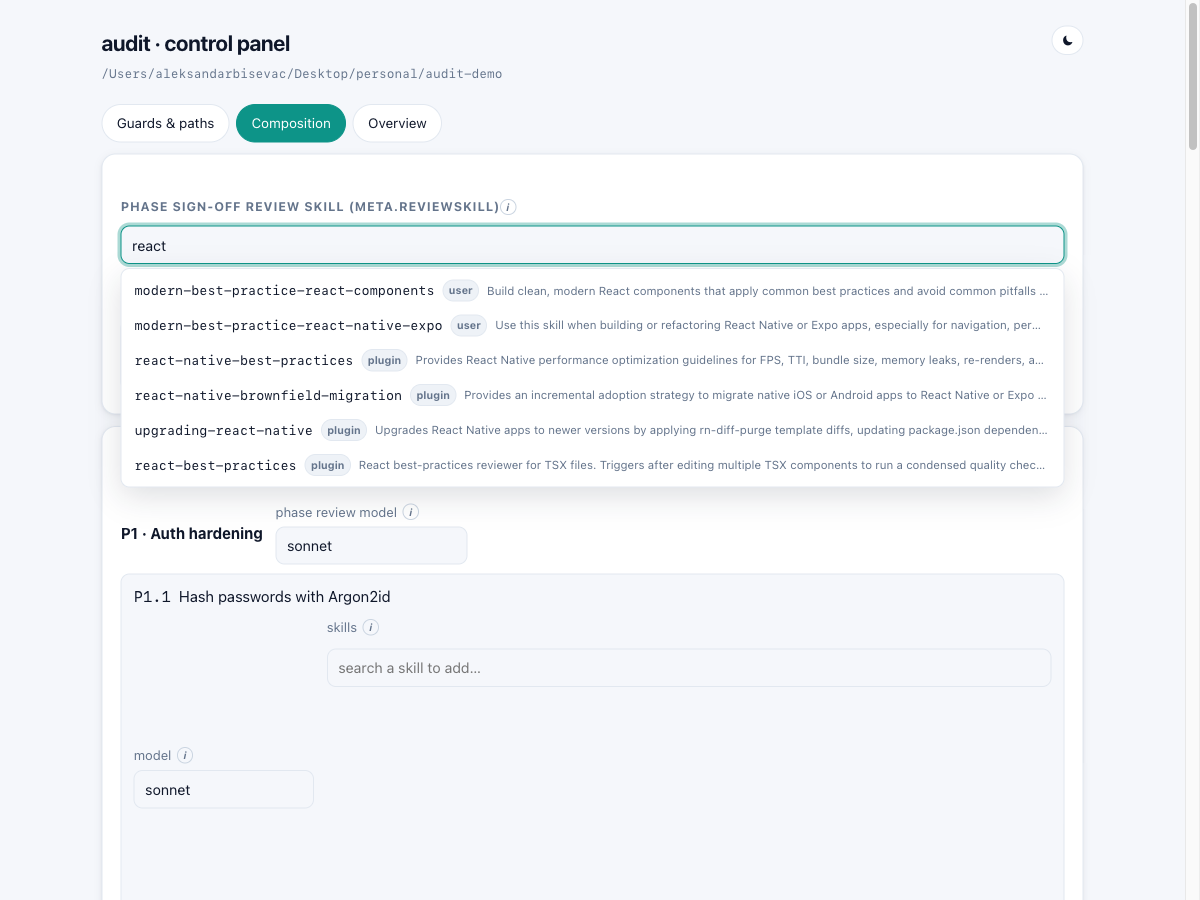
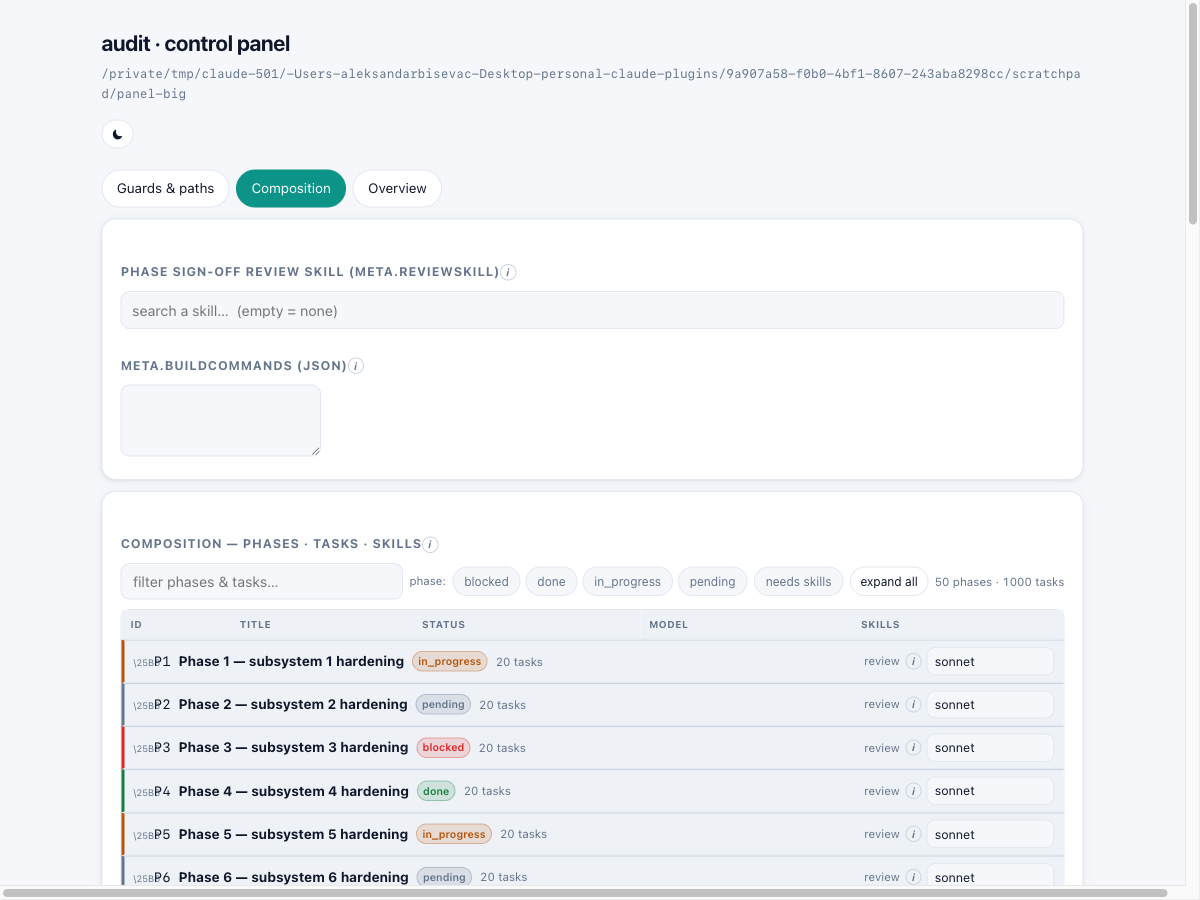
feat(panel): compact collapsible filterable Composition tab (scales to 50x20)
Replaces the big per-task cards (which didn't scale and wasted space) with the
report's proven shape:
- ONE dense table (id · title · status · model · skills); phases are collapsible
  group-rows, collapsed by default (50 phases = ~50 tight rows).
- Filter toolbar: text search (auto-expands matches), phase-status chips, a
  "needs skills" bulk-assign filter, expand/collapse-all, live count.
- Status-colored left edge + tinted status chips (reuse ok/warn/err/muted tokens);
  inline model input + skills chips/autocomplete per task.
- _composition_view now also returns phase/task status. Edit/save contract
  unchanged. Guards form + building-blocks table untouched.

panel-server --selftest 37 (added: composition is a collapsible filterable table).
Verified in a browser against a generated 50x20 (1000-task) manifest: collapsed
default is compact; search/phase-status/needs-skills filters work; expand/collapse
-all works; a task model/skills edit + Save round-trips + re-validates; skills
autocomplete opens in-cell; light/dark; mobile has no horizontal page scroll.

diff --git a/plugins/audit/scripts/panel-server.py b/plugins/audit/scripts/panel-server.py
@@ -266,13 +266,14 @@ def _composition_view(manifest):
             continue
         review = ph.get("review") if isinstance(ph.get("review"), dict) else {}
         phases_out.append({"id": ph.get("id"), "title": ph.get("title"),
-                           "reviewModel": review.get("model")})
+                           "status": ph.get("status"), "reviewModel": review.get("model")})
         for t in (ph.get("tasks") or []):
             if not isinstance(t, dict):
                 continue
             tasks_out.append({
                 "id": t.get("id"), "title": t.get("title"),
-                "phaseId": ph.get("id"), "model": t.get("model"),
+                "phaseId": ph.get("id"), "status": t.get("status"),
+                "model": t.get("model"),
                 "skills": t.get("skills") if isinstance(t.get("skills"), list) else [],
             })
     return {
@@ -759,6 +760,50 @@ table.regtbl th{position:sticky;top:0;z-index:1;background:var(--surface-2);colo
 table.regtbl td{padding:.4rem .65rem;border-bottom:1px solid var(--border);vertical-align:top}
 table.regtbl tbody tr:hover td{background:var(--surface-2)}
 table.regtbl td.d{color:var(--muted)}
+/* status -> --st (reuses the theme-aware ok/warn/err/muted tokens) */
+[data-status="done"],[data-status="fixed"]{--st:var(--ok)}
+[data-status="in_progress"],[data-status="triaged"]{--st:var(--warn)}
+[data-status="blocked"],[data-status="open"]{--st:var(--err)}
+[data-status="pending"],[data-status="wontfix"]{--st:var(--muted)}
+.st{display:inline-block;font-size:.66rem;font-weight:600;padding:.05rem .5em;border-radius:var(--pill);
+ background:color-mix(in srgb,var(--st,var(--muted)) 15%,transparent);color:var(--st,var(--muted));
+ border:1px solid color-mix(in srgb,var(--st,var(--muted)) 32%,transparent);white-space:nowrap}
+/* composition: filter toolbar + one compact collapsible table */
+.comptools{display:flex;gap:.4rem;align-items:center;flex-wrap:wrap;margin:.3rem 0 .6rem}
+.comptools input[type=search]{flex:1 1 13rem;min-width:9rem;padding:.35rem .7rem}
+.filtlbl{font-size:.72rem;color:var(--muted)}
+.filt{cursor:pointer;font:inherit;font-size:.75rem;padding:.26rem .68rem;border-radius:var(--pill);
+ border:1px solid var(--border);background:var(--bg);color:var(--muted);transition:all var(--dur) var(--ease)}
+.filt:hover{border-color:var(--border-strong)}
+.filt.on{background:var(--accent-solid);border-color:var(--accent-solid);color:#fff}
+.count{font-size:.73rem;color:var(--muted);font-variant-numeric:tabular-nums}
+.comptblwrap{border:1px solid var(--border);border-radius:var(--radius);overflow:visible}
+table.comp{width:100%;border-collapse:separate;border-spacing:0;font-size:.85rem}
+table.comp th,table.comp td{padding:.4rem .55rem;border-bottom:1px solid var(--border);text-align:left;vertical-align:middle}
+table.comp thead th{position:sticky;top:0;z-index:1;background:var(--surface-2);color:var(--muted);
+ font-size:.62rem;text-transform:uppercase;letter-spacing:.05em}
+table.comp tbody tr:last-child td{border-bottom:none}
+tr.phase{cursor:pointer}
+tr.phase>td{background:var(--surface-2);border-top:1px solid var(--border-strong);
+ border-left:3px solid var(--st,var(--muted))}
+.phtd{display:flex;align-items:center;gap:.5rem}
+tr.phase:hover>td{filter:brightness(1.05)}
+.tri{display:inline-block;width:.9em;color:var(--muted);transition:transform var(--dur) var(--ease)}
+.tri::before{content:"\25B6";font-size:.68em}
+tr.phase.open .tri{transform:rotate(90deg)}
+tr.task>td{background:var(--surface)}
+tr.task:hover>td{background:var(--surface-2)}
+tr.task>td.tid{font-family:var(--mono);color:var(--muted);font-size:.8em;padding-left:1.5rem;
+ border-left:3px solid var(--st,var(--border))}
+td.ttitle{max-width:22rem;overflow:hidden;text-overflow:ellipsis;white-space:nowrap}
+td.tmodel input{width:6.5rem;padding:.22rem .45rem;font-size:.8rem}
+td.tskills{min-width:15rem}
+.comp-review{display:flex;align-items:center;gap:.3rem;margin-left:auto;font-weight:400;color:var(--muted);font-size:.72rem}
+.comp-review input{width:8rem;padding:.2rem .45rem;font-size:.78rem}
+.comp .chipwrap{flex-direction:row;flex-wrap:wrap;align-items:center;gap:.25rem}
+.comp .chips{gap:.25rem}
+.comp .combo{flex:1 1 8rem;min-width:7rem}
+@media(max-width:48rem){.comptblwrap{overflow-x:auto}html,body{overflow-x:hidden}}
 </style></head><body>
 <div class=top>
  <div><h1>audit · control panel</h1><p class=sub id=proj></p></div>
@@ -928,19 +973,71 @@ function renderComp(){const c=$('#comp');c.textContent='';const comp=STATE.compo
  bc.oninput=()=>{try{patch.meta.buildCommands=bc.value.trim()?JSON.parse(bc.value):null;bc.style.borderColor='';}
   catch(e){bc.style.borderColor='var(--err)';}};
  meta.append(bc);c.append(meta);
- const tcard=el('div',{class:'card'});tcard.append(el('h2',{},'Tasks — model & skills'));
- const byPhase={};comp.tasks.forEach(t=>{(byPhase[t.phaseId]=byPhase[t.phaseId]||[]).push(t);});
+ // tasks: filter toolbar + ONE compact collapsible table (scales to 50x20)
+ const tcard=el('div',{class:'card'});tcard.append(h2h('Composition — phases · tasks · skills',DESC.taskSkills));
+ const q=el('input',{type:'search',placeholder:'filter phases & tasks…'});
+ const statusBar=el('span',{class:'filtset',style:'display:inline-flex;gap:.3rem;flex-wrap:wrap'});
+ const needsBtn=el('button',{class:'filt',type:'button',title:'only tasks with no skills yet'},'needs skills');
+ const expandBtn=el('button',{class:'btn small',type:'button'},'expand all');
+ const count=el('span',{class:'count',style:'margin-left:auto'});
+ tcard.append(el('div',{class:'comptools'},q,el('span',{class:'filtlbl'},'phase:'),statusBar,needsBtn,expandBtn,count));
+ const tbody=el('tbody');
+ tcard.append(el('div',{class:'comptblwrap'},el('table',{class:'comp'},
+   el('thead',{},el('tr',{},el('th',{},'id'),el('th',{},'title'),el('th',{},'status'),el('th',{},'model'),el('th',{},'skills'))),tbody)));
+
+ const open={};let phaseFilter='',needsOnly=false;
+ const phaseEls=[];const byPhase={};comp.tasks.forEach(t=>{(byPhase[t.phaseId]=byPhase[t.phaseId]||[]).push(t);});
  comp.phases.forEach(ph=>{
-  const pr=el('input',{value:ph.reviewModel??'',placeholder:'review model'});pr.oninput=()=>{patch.phases[ph.id]={reviewModel:pr.value.trim()||null};};
-  tcard.append(el('div',{class:'row',style:'margin-top:.8rem'},el('strong',{},(ph.id||'')+' · '+(ph.title||'')),
-    el('label',{class:'f',style:'flex:0 0 12rem'},flabel('phase review model',DESC.phaseReviewModel),pr)));
-  (byPhase[ph.id]||[]).forEach(t=>{
-   const tp={};const model=el('input',{value:t.model??'',placeholder:'model'});
+  const tasks=byPhase[ph.id]||[];
+  const rev=el('input',{value:ph.reviewModel??'',placeholder:'review model'});
+  rev.oninput=()=>{patch.phases[ph.id]={reviewModel:rev.value.trim()||null};};
+  rev.onclick=e=>e.stopPropagation();
+  const pr=el('tr',{class:'phase','data-status':ph.status||''});
+  pr.append(el('td',{colspan:'5'},el('div',{class:'phtd'},
+    el('span',{class:'tri'}),el('span',{class:'mono'},ph.id||''),el('strong',{},ph.title||''),
+    el('span',{class:'st','data-status':ph.status||''},ph.status||'—'),
+    el('span',{class:'count'},tasks.length+(tasks.length===1?' task':' tasks')),
+    el('span',{class:'comp-review'},flabel('review',DESC.phaseReviewModel),rev))));
+  pr.onclick=()=>{open[ph.id]=!open[ph.id];refresh();};
+  tbody.append(pr);
+  const taskEls=[];
+  tasks.forEach(t=>{
+   const tp={};const model=el('input',{value:t.model??'',placeholder:'—'});
    model.oninput=()=>{tp.model=model.value.trim()||null;patch.tasks[t.id]=tp;};
-   const chips=skillChips(()=>tp.skills!==undefined?tp.skills:t.skills,a=>{tp.skills=a;patch.tasks[t.id]=tp;});
-   tcard.append(el('div',{class:'tsk'},el('div',{class:'h'},el('span',{class:'mono'},t.id),el('span',{},t.title||'')),
-     el('div',{class:'row',style:'align-items:flex-start'},el('label',{class:'f',style:'flex:0 0 10rem'},flabel('model',DESC.taskModel),model),
-       el('label',{class:'f'},flabel('skills',DESC.taskSkills),chips))));});});
+   const getSkills=()=>tp.skills!==undefined?tp.skills:(t.skills||[]);
+   const chips=skillChips(getSkills,a=>{tp.skills=a;patch.tasks[t.id]=tp;if(needsOnly)refresh();});
+   const tr=el('tr',{class:'task','data-status':t.status||''});
+   tr.append(el('td',{class:'tid'},t.id||''),el('td',{class:'ttitle',title:t.title||''},t.title||''),
+     el('td',{},el('span',{class:'st','data-status':t.status||''},t.status||'—')),
+     el('td',{class:'tmodel'},model),el('td',{class:'tskills'},chips));
+   tbody.append(tr);
+   taskEls.push({id:t.id||'',title:t.title||'',tr,getSkills});
+  });
+  phaseEls.push({id:ph.id,title:ph.title||'',status:ph.status||'',tr:pr,tasks:taskEls});
+ });
+ [...new Set(comp.phases.map(p=>p.status).filter(Boolean))].sort().forEach(s=>{
+  const b=el('button',{class:'filt',type:'button','data-status':s},s);
+  b.onclick=()=>{phaseFilter=phaseFilter===s?'':s;
+   [...statusBar.children].forEach(x=>x.classList.toggle('on',x.getAttribute('data-status')===phaseFilter));refresh();};
+  statusBar.append(b);});
+ needsBtn.onclick=()=>{needsOnly=!needsOnly;needsBtn.classList.toggle('on',needsOnly);refresh();};
+ expandBtn.onclick=()=>{const anyClosed=phaseEls.some(P=>!open[P.id]);phaseEls.forEach(P=>open[P.id]=anyClosed);refresh();};
+ const hit=(s,term)=>!term||s.toLowerCase().includes(term);
+ function refresh(){
+  const term=q.value.trim().toLowerCase();const forced=(term!=='')||needsOnly;let visP=0,visT=0;
+  phaseEls.forEach(P=>{
+   const pText=hit(P.id+' '+P.title,term);let anyT=false;
+   P.tasks.forEach(T=>{const tHit=pText||hit(T.id+' '+T.title,term);
+    const needHit=!needsOnly||((T.getSkills()||[]).length===0);T._m=tHit&&needHit;if(T._m)anyT=true;});
+   const showP=(!phaseFilter||P.status===phaseFilter)&&(pText||anyT)&&(!needsOnly||anyT);
+   P.tr.style.display=showP?'':'none';if(showP)visP++;
+   const isOpen=showP&&(forced||!!open[P.id]);P.tr.classList.toggle('open',isOpen);
+   P.tasks.forEach(T=>{const showT=showP&&isOpen&&T._m;T.tr.style.display=showT?'':'none';if(showT)visT++;});});
+  count.textContent=(term||phaseFilter||needsOnly)?(visP+' / '+phaseEls.length+' phases · '+visT+' tasks')
+    :(phaseEls.length+' phases · '+comp.tasks.length+' tasks');
+  expandBtn.textContent=phaseEls.some(P=>!open[P.id])?'expand all':'collapse all';}
+ q.addEventListener('input',refresh);refresh();
+
  const save=el('button',{class:'btn primary',onclick:async()=>{
    const clean={meta:{},phases:patch.phases,tasks:patch.tasks};
    for(const k of Object.keys(patch.meta))clean.meta[k]=patch.meta[k];
@@ -1095,6 +1192,9 @@ def _selftest():
           and "<datalist" not in UI_HTML and "list:" not in UI_HTML)
     check("UI labels carry info hints", "function hint(" in UI_HTML and "data-tip" in UI_HTML)
     check("UI building blocks are a tabbed table", "regtbl" in UI_HTML and "subtab" in UI_HTML)
+    check("composition is a compact collapsible filterable table",
+          "comptools" in UI_HTML and "table.comp" in UI_HTML and "needs skills" in UI_HTML
+          and "tr.phase" in UI_HTML and "class:'tsk'" not in UI_HTML)
 
     # lifecycle: pidfile + stop/status (no socket needed)
     check("_pid_alive on this process is True", _pid_alive(os.getpid()))

diff --git a/plugins/audit/README.md b/plugins/audit/README.md
@@ -49,11 +49,13 @@ hint), and **wires composition** — `meta.reviewSkill`, per-task `skills`/`mode
 model, `meta.buildCommands` — from **an autocomplete populated by the skills & agents actually
 available** in this repo + `~/.claude/` + installed plugins. Same Slate & Teal look, light/dark,
 responsive. It writes only config + composition fields (never structural manifest CRUD, and never
-while a `/audit` run holds the lock), validating before each atomic save.
+while a `/audit` run holds the lock), validating before each atomic save. Composition is a
+**compact, collapsible, filterable table** (search · phase-status · "needs skills" · expand-all)
+that scales to hundreds of tasks — phases are collapsed by default; expand only what you touch.
 
-| Guards & paths | Composition + discovery | Dark |
-|---|---|---|
-| [![panel guards](../../docs/screenshots/panel-guards.png)](../../docs/screenshots/panel-guards.png) | [![panel composition](../../docs/screenshots/panel-composition.png)](../../docs/screenshots/panel-composition.png) | [![panel dark](../../docs/screenshots/panel-dark.png)](../../docs/screenshots/panel-dark.png) |
+| Guards & paths | Composition (compact/collapsible) | Composition expanded | Dark |
+|---|---|---|---|
+| [![panel guards](../../docs/screenshots/panel-guards.png)](../../docs/screenshots/panel-guards.png) | [![panel composition](../../docs/screenshots/panel-composition.png)](../../docs/screenshots/panel-composition.png) | [![panel composition expanded](../../docs/screenshots/panel-composition-expanded.png)](../../docs/screenshots/panel-composition-expanded.png) | [![panel dark](../../docs/screenshots/panel-dark.png)](../../docs/screenshots/panel-dark.png) |
 
 ## What you get
 

diff --git a/CHANGELOG.md b/CHANGELOG.md
@@ -4,6 +4,19 @@ All notable changes to the `quality-gates` marketplace and its `audit` plugin.
 Format: [Keep a Changelog](https://keepachangelog.com/en/1.1.0/); versions are the
 `audit` plugin's `plugin.json` version, tagged `v<version>` on this repo.
 
+## [Unreleased]
+
+### Changed
+- **Control-panel Composition tab is now a compact, collapsible, filterable table.**
+  Replaced the big per-task cards (which didn't scale) with the report's proven
+  shape: phases are collapsible group-rows (collapsed by default) over a dense table
+  (`id · title · status · model · skills`), plus a filter toolbar — text search
+  (auto-expands matches), phase-status chips, a **"needs skills"** bulk-assign
+  filter, expand/collapse-all, and a live count. Verified against a 50-phase ×
+  20-task (1000-task) manifest; the panel stays fast and readable. The edit/save
+  contract (`PUT /api/composition`) is unchanged; the state view now also carries
+  each phase/task `status`.
+
 ## [0.13.2] - 2026-07-22
 
 `/audit:panel` becomes a clean open / stop / status lifecycle — a running panel is
